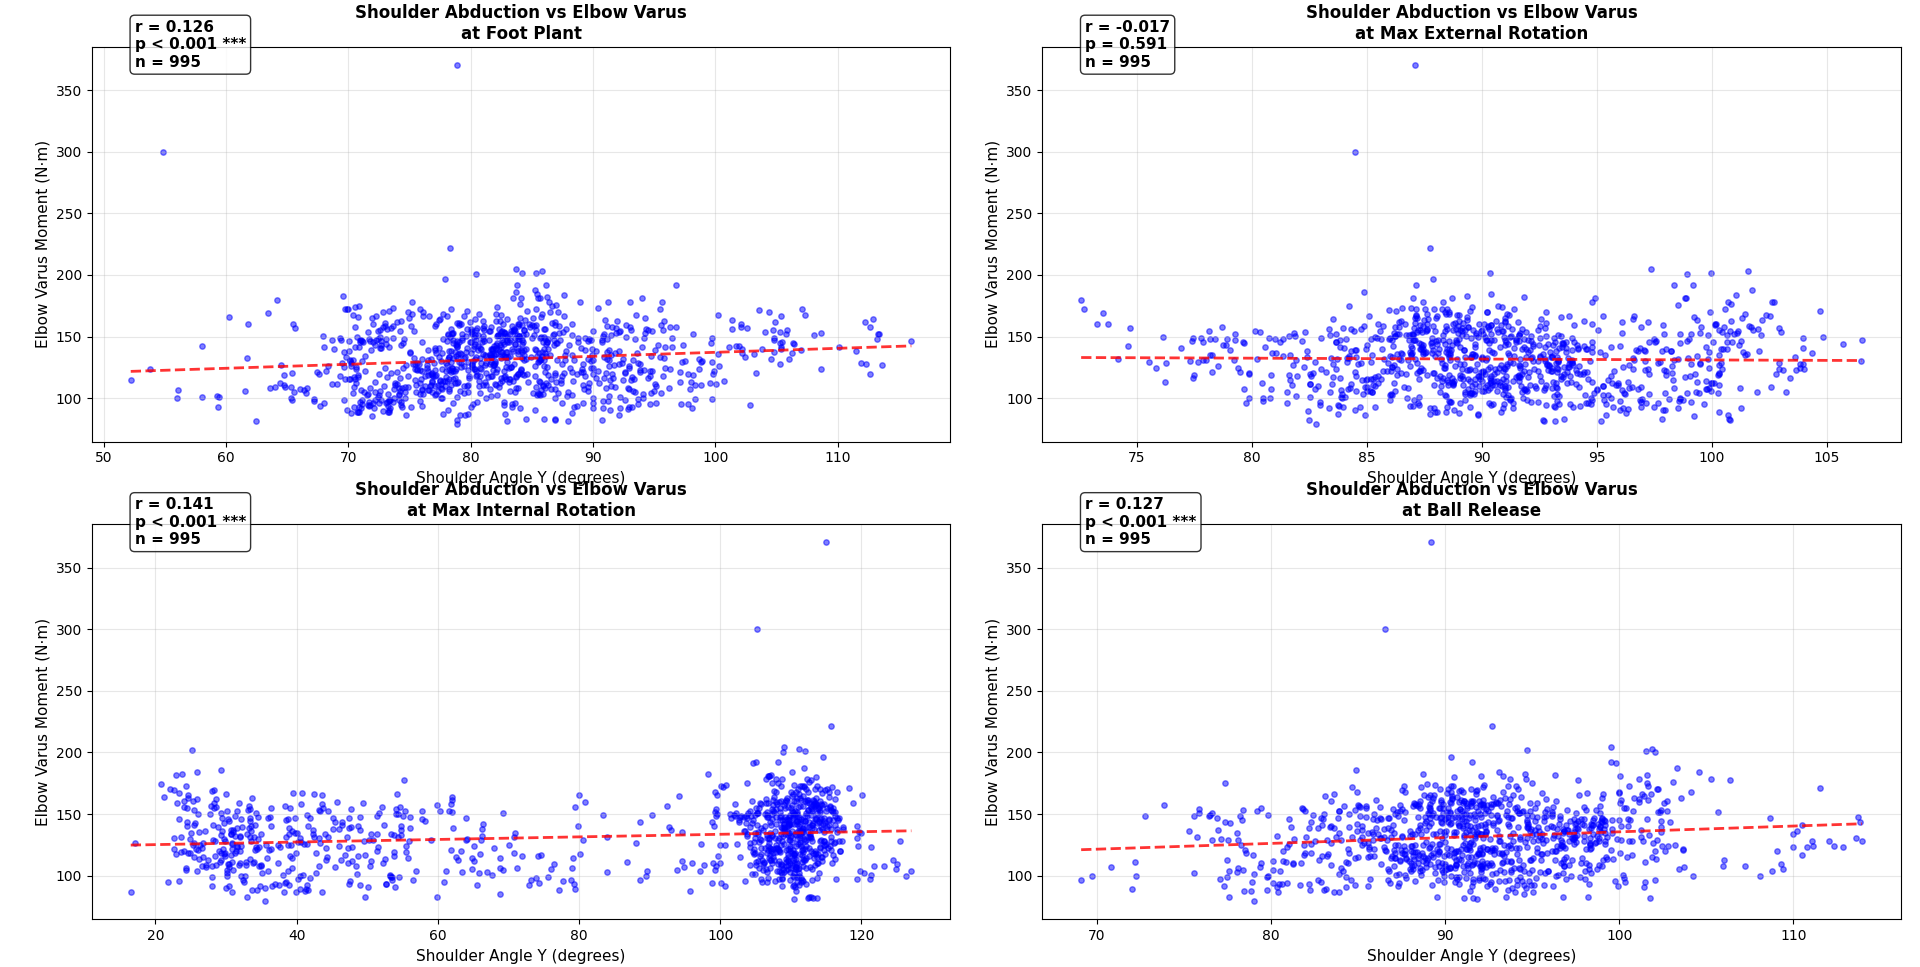
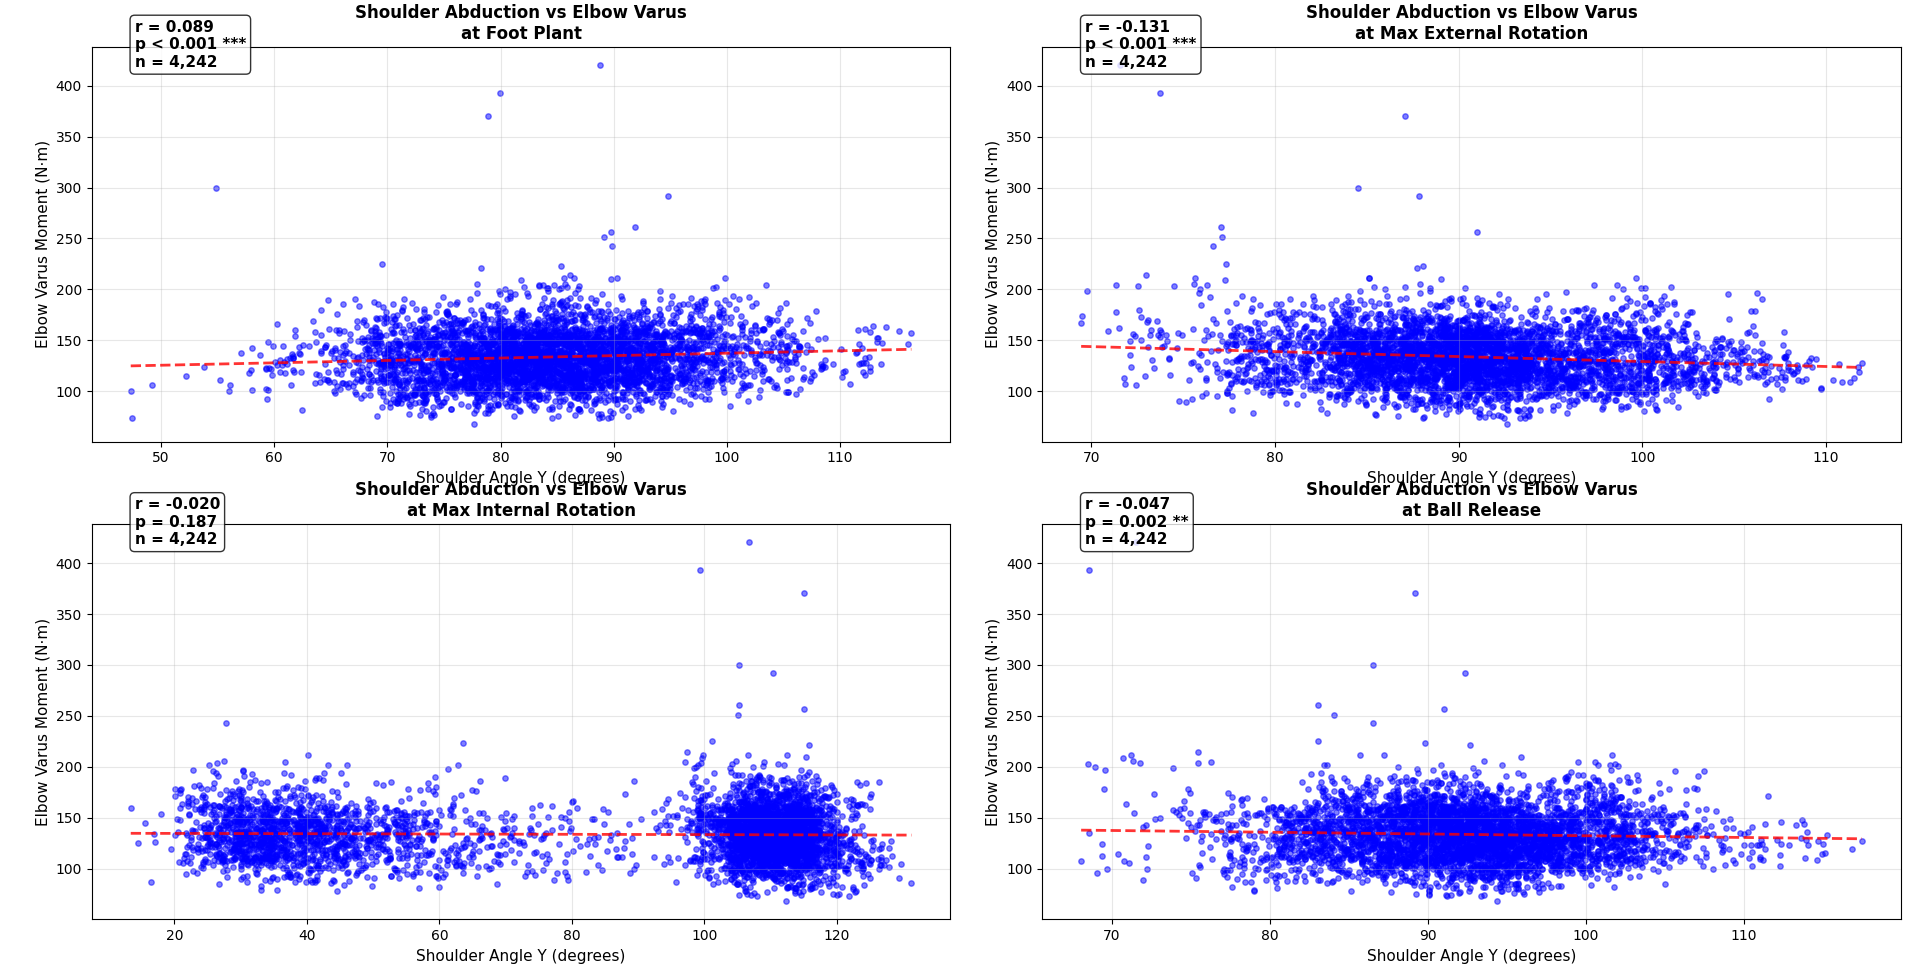
Added shoulder abduction vs elbow varus momemnt corr

diff --git a/varus_correlations.py b/varus_correlations.py
@@ -50,10 +50,10 @@ def query_shoulder_elbow_data():
     # Now query shoulder angle data for these specific trials
     session_trials = df['session_trial'].tolist()
     
-    if len(session_trials) > 1000:
-        print(f"Large dataset ({len(session_trials)} trials). Taking first 1000 for analysis.")
-        session_trials = session_trials[:1000]
-        df = df.head(1000).copy()
+    if len(session_trials) > 5000:
+        print(f"Large dataset ({len(session_trials)} trials). Taking first 5000 for analysis.")
+        session_trials = session_trials[:5000]
+        df = df.head(5000).copy()
     
     shoulder_data = query_shoulder_angles(db, session_trials, df)
     
